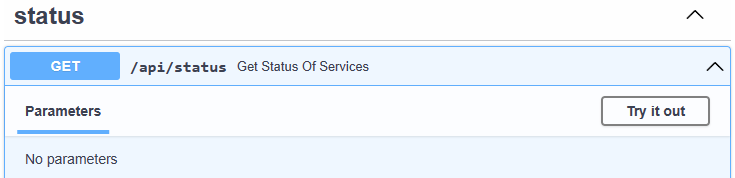
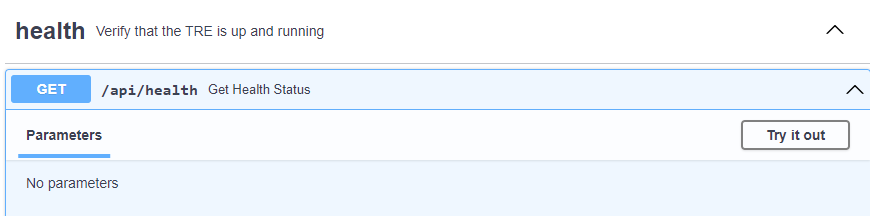
remove /status + fix test

diff --git a/e2e_tests/test_provisioned_health_api.py b/e2e_tests/test_provisioned_health_api.py
@@ -8,16 +8,14 @@ from resources import strings
 pytestmark = pytest.mark.asyncio
 
 
+@pytest.mark.smoke
 async def test_health() -> None:
     async with AsyncClient(verify=False) as client:
         url = f"https://{config.TRE_ID}.{config.RESOURCE_LOCATION}.cloudapp.azure.com{strings.API_HEALTH}"
         response = await client.get(url)
-        assert response.json()["message"] == strings.PONG
-
-
-async def test_status() -> None:
-    async with AsyncClient(verify=False) as client:
-        url = f"https://{config.TRE_ID}.{config.RESOURCE_LOCATION}.cloudapp.azure.com{strings.API_STATUS}"
-        response = await client.get(url)
         assert response.status_code == 200
-        assert response.json()["services"] == [{'service': 'Cosmos DB', 'status': 'OK', 'message': ''}]
+        assert response.json()["services"] == [
+            {"service": "Cosmos DB", "status": "OK", "message": ""},
+            {"service": "Service Bus", "status": "OK", "message": ""},
+            {"service": "Resource Processor", "status": "OK", "message": ""},
+        ]

diff --git a/e2e_tests/resources/strings.py b/e2e_tests/resources/strings.py
@@ -1,7 +1,6 @@
 PONG = "pong"
 
 API_HEALTH = "/api/health"
-API_STATUS = "/api/status"
 API_WORKSPACE_TEMPLATES = "/api/workspace-templates"
 API_WORKSPACES = "/api/workspaces"
 API_WORKSPACE_SERVICE_TEMPLATES = "/api/workspace-service-templates"

diff --git a/docs/tre-admins/setup-instructions/deploying-azure-tre.md b/docs/tre-admins/setup-instructions/deploying-azure-tre.md
@@ -35,22 +35,34 @@ make letsencrypt
 
 ### Using curl
 
-Use `curl` to make a simple request to the status endpoint of the API:
+Use `curl` to make a simple request to the health endpoint of the API:
 
 ```bash
-curl https://<azure_tre_fqdn>/api/status
+curl https://<azure_tre_fqdn>/api/health
 ```
 
 The expected response is:
 
 ```json
-{"services":[{"service":"Cosmos DB","status":"OK","message":""}]}
-```
-
-You can also create a request to the `api/health` endpoint to verify that the API is deployed and responds. You should see a *pong* response as a result of the request below:
-
-```cmd
-curl https://<azure_tre_fqdn>/api/health
+{
+  "services": [
+    {
+      "service": "Cosmos DB",
+      "status": "OK",
+      "message": ""
+    },
+    {
+      "service": "Service Bus",
+      "status": "OK",
+      "message": ""
+    },
+    {
+      "service": "Resource Processor",
+      "status": "OK",
+      "message": ""
+    }
+  ]
+}
 ```
 
 ### Using the API docs
